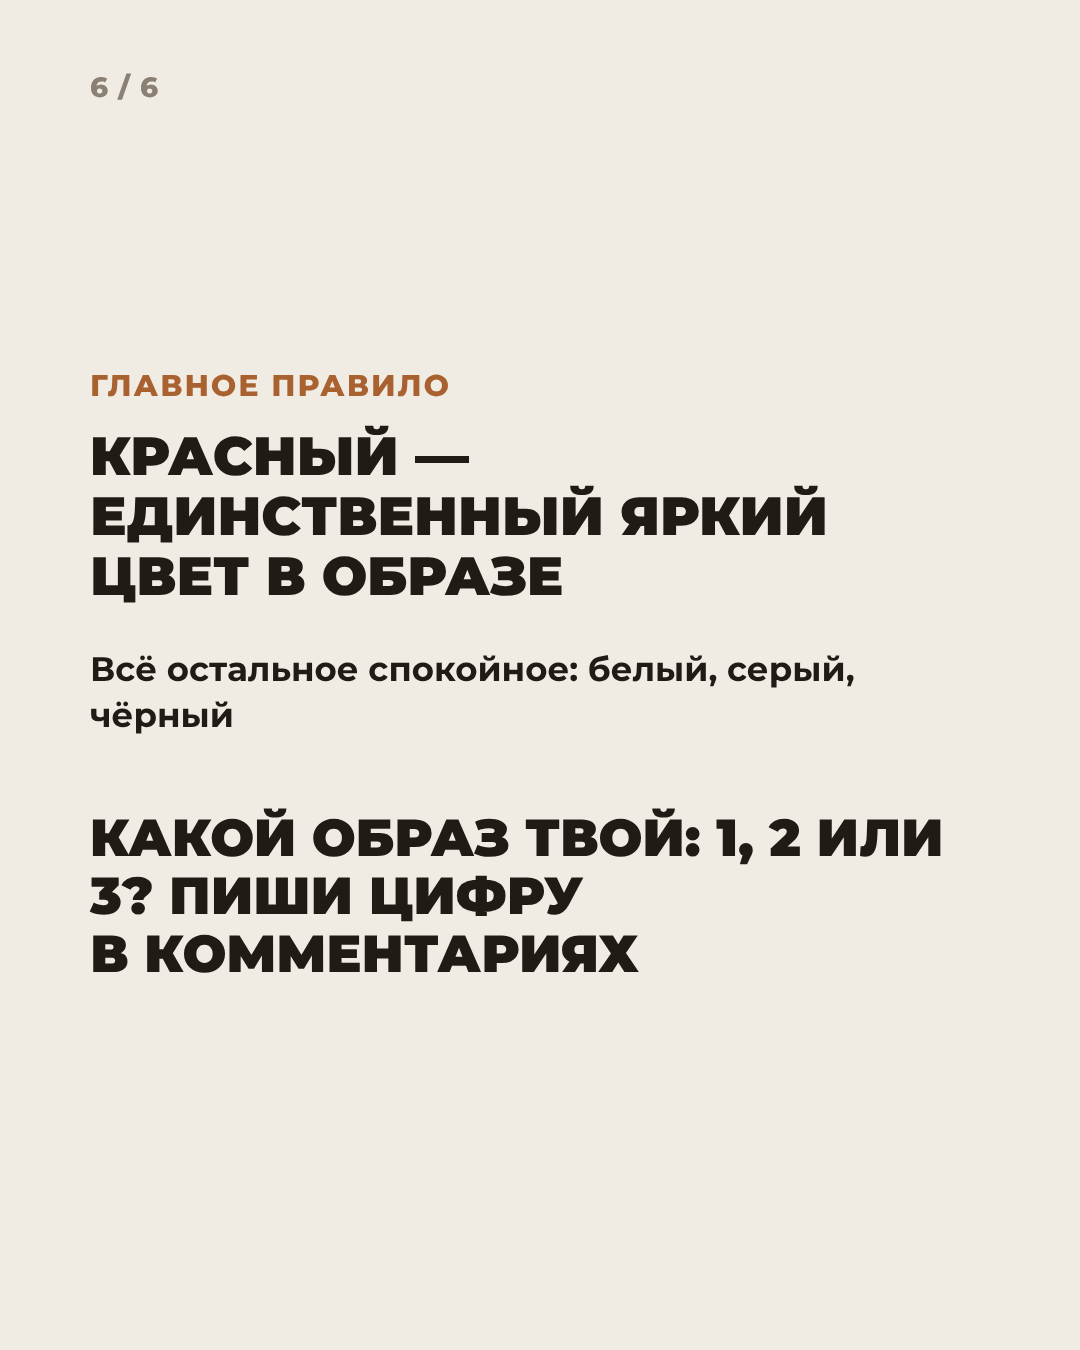
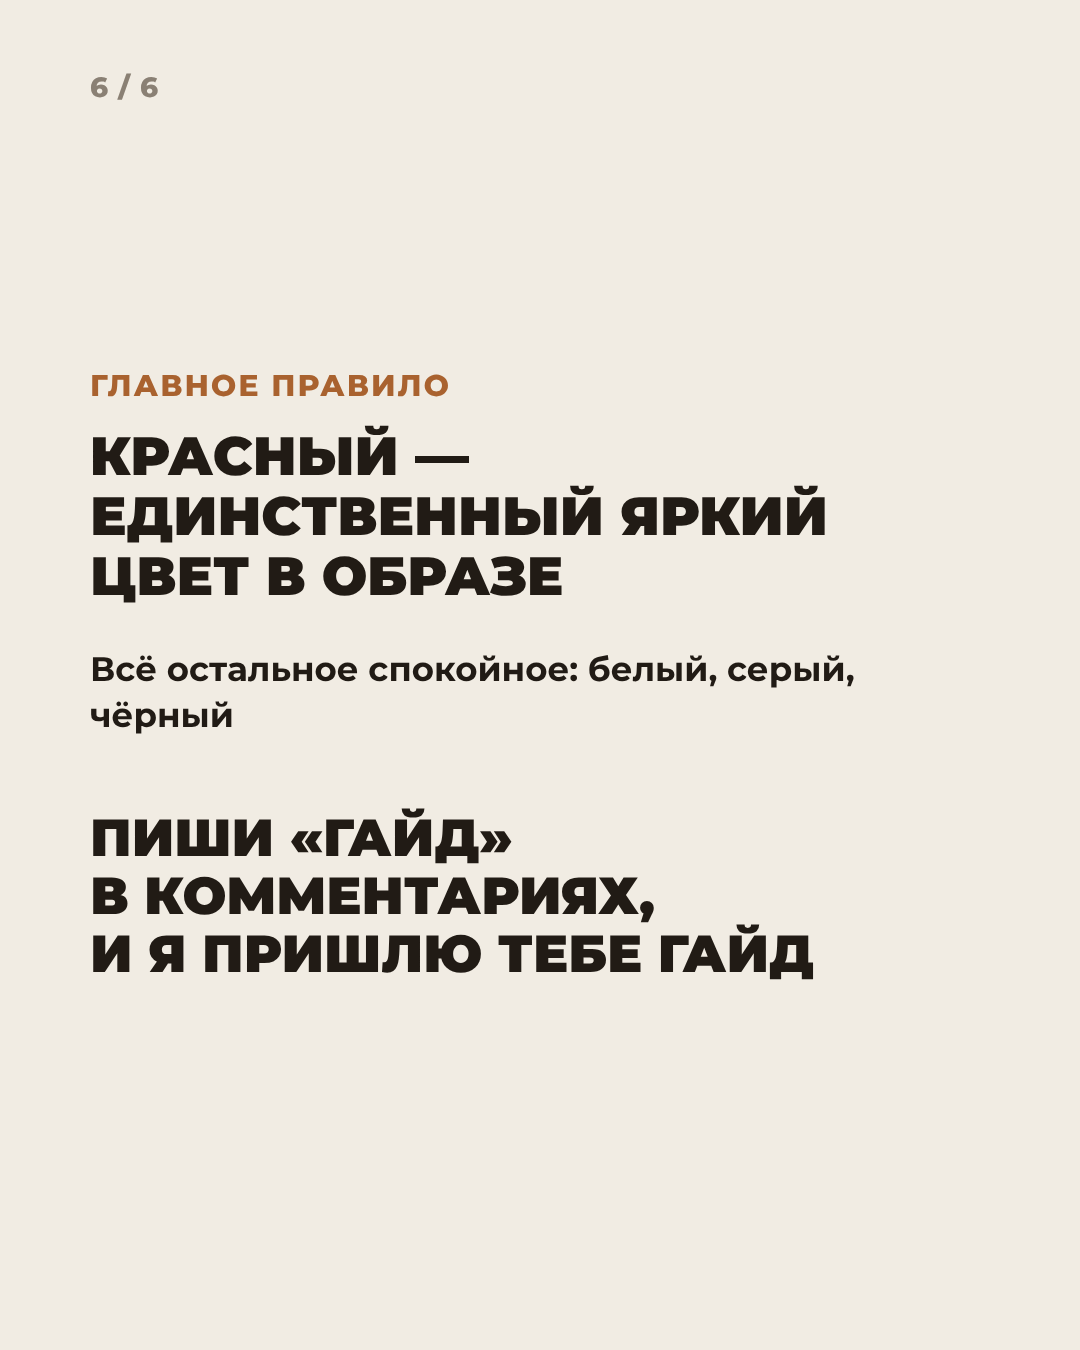
Carousel 9.11: GUIDE call to action
Claude-Session: https://claude.ai/code/session_01WfDMDWpCzhvXCNpiNoLDnf

Changed region(s): [[0.0611, 0.5911, 0.8861, 0.7467]]

diff --git a/karusel-krasnyi-sviter/index.html b/karusel-krasnyi-sviter/index.html
@@ -90,7 +90,7 @@ header{display:grid;gap:10px}
         <img src="s/03.jpg" alt="Образ 1: белые джинсы, ремень, лоферы">
         <img src="s/04.jpg" alt="Образ 2: белый лонгслив, серые брюки, шопер">
         <img src="s/05.jpg" alt="Образ 3: серая юбка, сапоги с острым носом">
-        <img src="s/06.jpg" alt="Главное правило и вопрос «Какой образ твой: 1, 2 или 3?»">
+        <img src="s/06.jpg" alt="Главное правило и призыв «Пиши ГАЙД»">
       </div>
       <button class="nav prev" id="prev" aria-label="Предыдущий слайд">‹</button>
       <button class="nav next" id="next" aria-label="Следующий слайд">›</button>
@@ -103,7 +103,7 @@ header{display:grid;gap:10px}
       <p>Красный зимой выглядит дорого, если он единственный яркий цвет в образе. Всё остальное держим спокойным: белый, серый, чёрный.</p>
       <p>Образ 1: белые джинсы, кожаный ремень, лоферы<br>Образ 2: белый лонгслив, широкие серые брюки, шопер<br>Образ 3: серая юбка миди, сапоги с острым носом</p>
       <p>Где купить:<br>Свитер — LIME, 4 999 ₽<br>Белые джинсы — Love Republic, 3 587 ₽<br>Ремень — Sela, 3 599 ₽<br>Лоферы — Befree, 2 599 ₽<br>Белый лонгслив — LIME, 1 799 ₽<br>Серые брюки — Love Republic, 4 999 ₽<br>Шопер — Befree, 4 999 ₽<br>Серая юбка — LIME, 5 999 ₽<br>Сапоги — Befree, 5 999 ₽</p>
-      <p>Какой образ твой: 1, 2 или 3? Пиши цифру в комментариях.</p>
+      <p>Пиши «ГАЙД» в комментариях, и я пришлю тебе гайд 🤍</p>
       <p>Фото образов: @stassiaone и подборка Ирины. Фото вещей: сайты магазинов.</p>
       <p>#красныйсвитер #образнакаждыйдень #стильзимой #капсула #стилист</p>
     </div>
@@ -155,7 +155,7 @@ header{display:grid;gap:10px}
 <span class="n">06</span>
 <img src="s/06.jpg" alt="" data-i="5">
 <div class="t">
-<span>Главное правило и вопрос «Какой образ твой: 1, 2 или 3?»</span>
+<span>Главное правило и призыв «Пиши ГАЙД»</span>
 <span class="src">Правило: красный — единственный яркий цвет, остальное белый, серый, чёрный</span>
 </div>
 </li>
